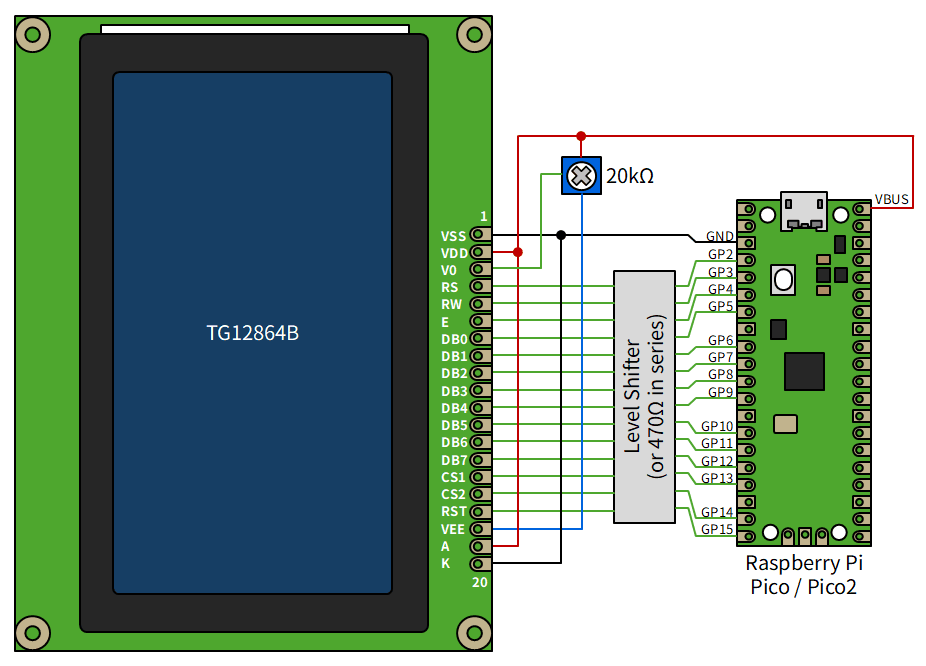
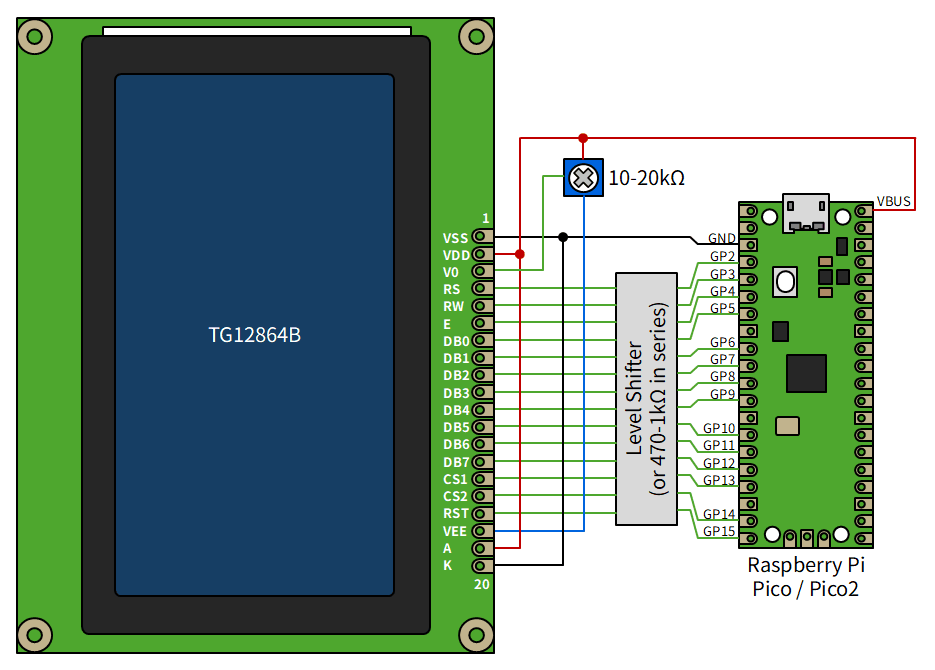
fix README

Changed region(s): [[0.0, 0.0, 0.9978, 0.991], [0.121, 0.0901, 0.4233, 0.9009], [0.2419, 0.4805, 0.3326, 0.5105]]

diff --git a/README.ja.md b/README.ja.md
@@ -117,14 +117,9 @@ target_link_libraries(your_app pdmfrc)
 | [gfx3d](examples/core/gfx3d) | 波打つ水面に浮かぶ金属キューブのリアルタイム 3D ([ShapoGFX](https://github.com/shapoco/shapo-gfx) が必要) |
 
 - `examples/core/` には、アーキテクチャに依存しない部分を置いています。
-- `examples/rp2/` には、Raspberry Pi Pico (RP2040) / Pico 2 (RP2350) と TG12864B の組み合わせ向けのビルド環境を置いています。
+- `examples/rp2/` には、Raspberry Pi Pico (RP2040) / Pico 2 (RP2350) と TG12864B の組み合わせ向けのビルド環境を置いています。詳細は [examples/rp2/README.ja.md](examples/rp2/README.ja.md) を参照してください。
 
-```sh
-export PICO_SDK_PATH=...
-export SHAPOGFX_PATH=...   # gfx3d のみ
-examples/rp2/image/build.sh          # RP2040
-examples/rp2/image/build.sh pico2    # RP2350
-```
+RP2 向けサンプルのビルド済みバイナリ (`.uf2`) は、[Releases](https://github.com/shapoco/pdmfrc/releases) ページからダウンロードできます。接続は [examples/rp2](examples/rp2/README.ja.md) を参照してください。
 
 ## ツール
 

diff --git a/README.md b/README.md
@@ -120,15 +120,12 @@ Options (cache variables):
 | [image](examples/core/image) | A still image through the palette LUT |
 | [gfx3d](examples/core/gfx3d) | Real-time 3D: a metal cube over wavy water (requires [ShapoGFX](https://github.com/shapoco/shapo-gfx)) |
 
-`examples/core/` holds the platform-independent parts. `examples/rp2/` holds the
-builds for the Raspberry Pi Pico (RP2040) and Pico 2 (RP2350) with a TG12864B:
+`examples/core/` holds the platform-independent parts. See
+[examples/rp2/README.md](examples/rp2/README.md) for the Raspberry Pi Pico
+(RP2040 / RP2350) builds and wiring details.
 
-```sh
-export PICO_SDK_PATH=...
-export SHAPOGFX_PATH=...   # gfx3d only
-examples/rp2/image/build.sh          # RP2040
-examples/rp2/image/build.sh pico2    # RP2350
-```
+Prebuilt binaries (`.uf2`) of the RP2 examples can be downloaded from the
+[Releases](https://github.com/shapoco/pdmfrc/releases) page.
 
 ## Tools
 

diff --git a/examples/rp2/README.md b/examples/rp2/README.md
@@ -47,6 +47,14 @@ sent at a fixed rate (103 fps for the TG12864B).
   LCD drives DB0..DB7 during status reads. If the module runs at 5 V, use a
   level shifter, or switch to fixed cycle mode (`w` key) and tie R/W to GND.
 
+## Prebuilt binaries
+
+Prebuilt binaries can be downloaded from the
+[Releases](https://github.com/shapoco/pdmfrc/releases) page. The zip file
+holds `rp2/<board>/<example>/<example>.uf2` (`pico`: RP2040, `pico2`: RP2350).
+Hold BOOTSEL while connecting the Pico, then copy the `.uf2` to the drive that
+appears.
+
 ## Build
 
 Requirements: [Pico SDK](https://github.com/raspberrypi/pico-sdk) (2.x for
